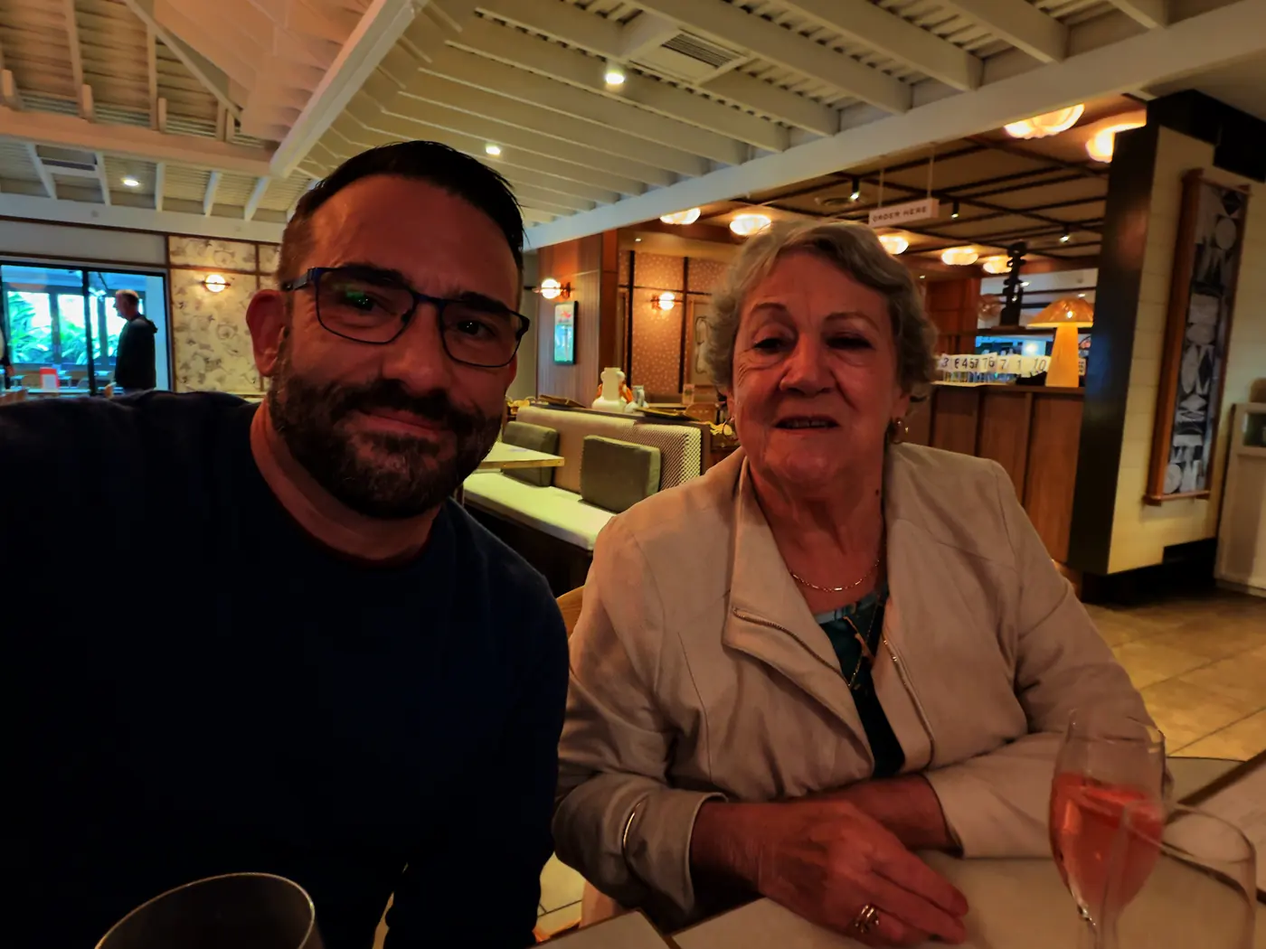
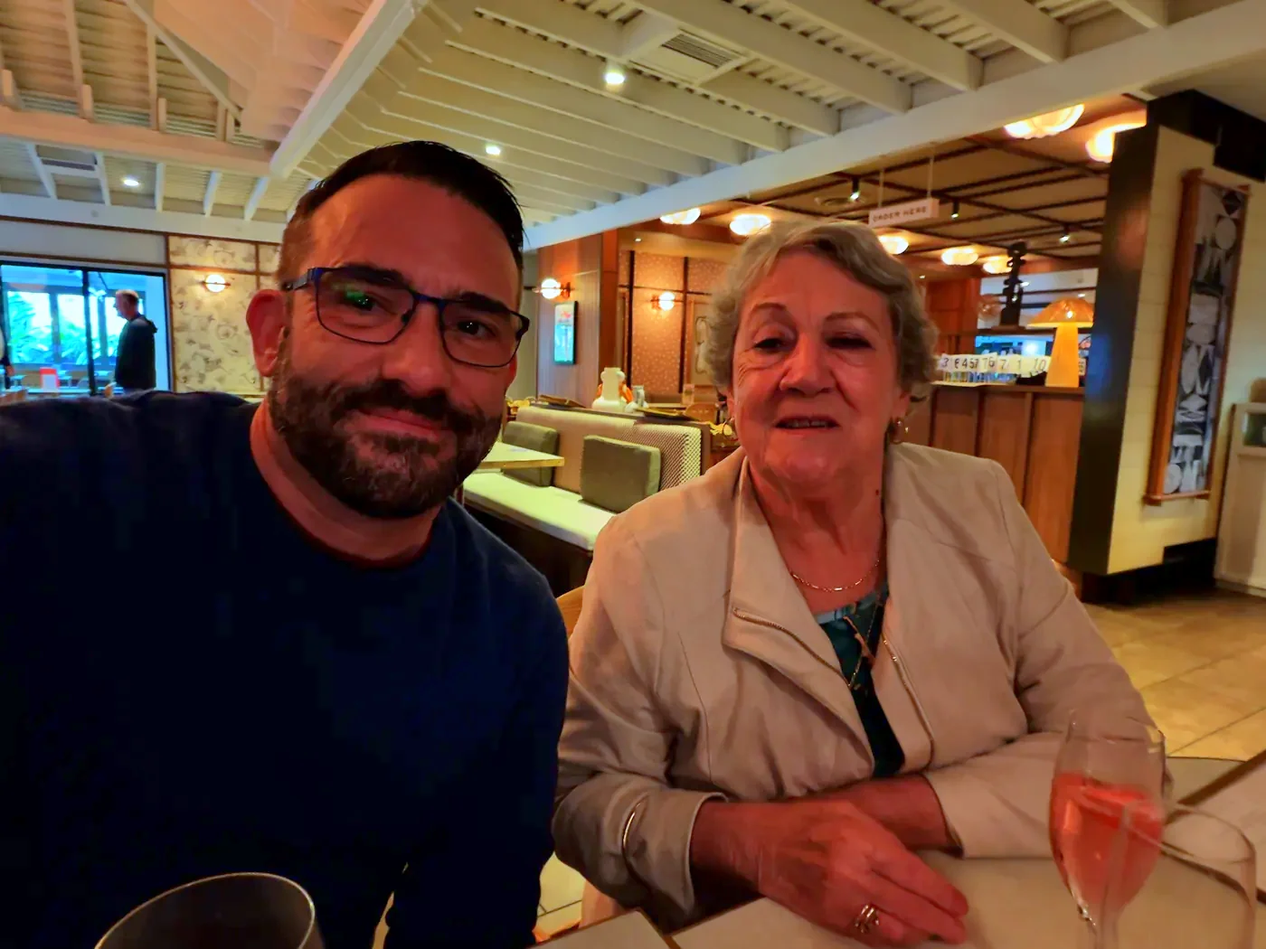
Fix gallery: move 2014-v1 video to 2024, drop duplicate mum photo
Renames 2014-v1 (video, poster, thumb) to 2024-v2 so it sits with 2024.
Removes 2025-05, a duplicate of 2025-03, and brightens and rebalances 2025-03.
Rebuilds memories.html.

Claude-Session: https://claude.ai/code/session_011BJYhmmrh5QeYjPERFfxPi

diff --git a/memories.html b/memories.html
@@ -122,7 +122,7 @@
 </header>
 
 <main>
-  <div class="wall" aria-label="86 photos and videos from past bashes">
+  <div class="wall" aria-label="85 photos and videos from past bashes">
     <button class="tile" type="button" data-i="0" data-full="assets/years/2006-01.webp" aria-label="Open photo 1"><img src="assets/years/thumbs/2006-01.webp" width="336" height="448" alt="Photo from a past B.B.B.B" loading="eager" fetchpriority="high" decoding="async"></button>
     <button class="tile" type="button" data-i="1" data-full="assets/years/2006-02.webp" aria-label="Open photo 2"><img src="assets/years/thumbs/2006-02.webp" width="448" height="336" alt="Photo from a past B.B.B.B" loading="eager" fetchpriority="high" decoding="async"></button>
     <button class="tile" type="button" data-i="2" data-full="assets/years/2006-03.webp" aria-label="Open photo 3"><img src="assets/years/thumbs/2006-03.webp" width="448" height="336" alt="Photo from a past B.B.B.B" loading="eager" fetchpriority="high" decoding="async"></button>
@@ -161,54 +161,53 @@
     <button class="tile" type="button" data-i="35" data-full="assets/years/2014-02.webp" aria-label="Open photo 36"><img src="assets/years/thumbs/2014-02.webp" width="640" height="481" alt="Photo from a past B.B.B.B" loading="lazy" decoding="async"></button>
     <button class="tile" type="button" data-i="36" data-full="assets/years/2014-03.webp" aria-label="Open photo 37"><img src="assets/years/thumbs/2014-03.webp" width="640" height="481" alt="Photo from a past B.B.B.B" loading="lazy" decoding="async"></button>
     <button class="tile" type="button" data-i="37" data-full="assets/years/2014-04.webp" aria-label="Open photo 38"><img src="assets/years/thumbs/2014-04.webp" width="640" height="427" alt="Photo from a past B.B.B.B" loading="lazy" decoding="async"></button>
-    <button class="tile vid" type="button" data-i="38" data-video="assets/years/2014-v1.mp4" data-poster="assets/years/2014-v1.jpg" aria-label="Play video: Video from a past B.B.B.B"><img src="assets/years/thumbs/2014-v1.webp" width="360" height="640" alt="" loading="lazy" decoding="async"><span class="play" aria-hidden="true"></span></button>
-    <button class="tile" type="button" data-i="39" data-full="assets/years/2015-01.webp" aria-label="Open photo 40"><img src="assets/years/thumbs/2015-01.webp" width="640" height="480" alt="Photo from a past B.B.B.B" loading="lazy" decoding="async"></button>
-    <button class="tile" type="button" data-i="40" data-full="assets/years/2015-02.webp" aria-label="Open photo 41"><img src="assets/years/thumbs/2015-02.webp" width="640" height="480" alt="Photo from a past B.B.B.B" loading="lazy" decoding="async"></button>
-    <button class="tile" type="button" data-i="41" data-full="assets/years/2015-03.webp" aria-label="Open photo 42"><img src="assets/years/thumbs/2015-03.webp" width="640" height="480" alt="Photo from a past B.B.B.B" loading="lazy" decoding="async"></button>
-    <button class="tile" type="button" data-i="42" data-full="assets/years/2016-02.webp" aria-label="Open photo 43"><img src="assets/years/thumbs/2016-02.webp" width="640" height="480" alt="Photo from a past B.B.B.B" loading="lazy" decoding="async"></button>
-    <button class="tile" type="button" data-i="43" data-full="assets/years/2016-03.webp" aria-label="Open photo 44"><img src="assets/years/thumbs/2016-03.webp" width="640" height="480" alt="Photo from a past B.B.B.B" loading="lazy" decoding="async"></button>
-    <button class="tile" type="button" data-i="44" data-full="assets/years/2016-04.webp" aria-label="Open photo 45"><img src="assets/years/thumbs/2016-04.webp" width="640" height="480" alt="Photo from a past B.B.B.B" loading="lazy" decoding="async"></button>
-    <button class="tile" type="button" data-i="45" data-full="assets/years/2016-05.webp" aria-label="Open photo 46"><img src="assets/years/thumbs/2016-05.webp" width="640" height="853" alt="Photo from a past B.B.B.B" loading="lazy" decoding="async"></button>
-    <button class="tile" type="button" data-i="46" data-full="assets/years/2016-06.webp" aria-label="Open photo 47"><img src="assets/years/thumbs/2016-06.webp" width="640" height="480" alt="Photo from a past B.B.B.B" loading="lazy" decoding="async"></button>
-    <button class="tile" type="button" data-i="47" data-full="assets/years/2016-07.webp" aria-label="Open photo 48"><img src="assets/years/thumbs/2016-07.webp" width="640" height="853" alt="Photo from a past B.B.B.B" loading="lazy" decoding="async"></button>
-    <button class="tile" type="button" data-i="48" data-full="assets/years/2016-08.webp" aria-label="Open photo 49"><img src="assets/years/thumbs/2016-08.webp" width="640" height="480" alt="Photo from a past B.B.B.B" loading="lazy" decoding="async"></button>
-    <button class="tile" type="button" data-i="49" data-full="assets/years/2016-09.webp" aria-label="Open photo 50"><img src="assets/years/thumbs/2016-09.webp" width="640" height="480" alt="Photo from a past B.B.B.B" loading="lazy" decoding="async"></button>
-    <button class="tile" type="button" data-i="50" data-full="assets/years/2017-01.webp" aria-label="Open photo 51"><img src="assets/years/thumbs/2017-01.webp" width="640" height="480" alt="Photo from a past B.B.B.B" loading="lazy" decoding="async"></button>
-    <button class="tile" type="button" data-i="51" data-full="assets/years/2017-02.webp" aria-label="Open photo 52"><img src="assets/years/thumbs/2017-02.webp" width="640" height="480" alt="Photo from a past B.B.B.B" loading="lazy" decoding="async"></button>
-    <button class="tile vid" type="button" data-i="52" data-video="assets/years/2018-v1.mp4" data-poster="assets/years/2018-v1.jpg" aria-label="Play video: Video from a past B.B.B.B"><img src="assets/years/thumbs/2018-v1.webp" width="640" height="360" alt="" loading="lazy" decoding="async"><span class="play" aria-hidden="true"></span></button>
-    <button class="tile vid" type="button" data-i="53" data-video="assets/years/2018-v2.mp4" data-poster="assets/years/2018-v2.jpg" aria-label="Play video: Video from a past B.B.B.B"><img src="assets/years/thumbs/2018-v2.webp" width="640" height="360" alt="" loading="lazy" decoding="async"><span class="play" aria-hidden="true"></span></button>
-    <button class="tile" type="button" data-i="54" data-full="assets/years/2019-01.webp" aria-label="Open photo 55"><img src="assets/years/thumbs/2019-01.webp" width="640" height="480" alt="Photo from a past B.B.B.B" loading="lazy" decoding="async"></button>
-    <button class="tile vid" type="button" data-i="55" data-video="assets/years/2019-v1.mp4" data-poster="assets/years/2019-v1.jpg" aria-label="Play video: Video from a past B.B.B.B"><img src="assets/years/thumbs/2019-v1.webp" width="640" height="360" alt="" loading="lazy" decoding="async"><span class="play" aria-hidden="true"></span></button>
-    <button class="tile wide" type="button" data-i="56" data-full="assets/years/2020-01.webp" aria-label="Open photo 57"><img src="assets/years/thumbs/2020-01.webp" width="640" height="244" alt="Invitation from a past B.B.B.B" loading="lazy" decoding="async"></button>
-    <button class="tile" type="button" data-i="57" data-full="assets/years/2020-03.webp" aria-label="Open photo 58"><img src="assets/years/thumbs/2020-03.webp" width="640" height="480" alt="Photo from a past B.B.B.B" loading="lazy" decoding="async"></button>
-    <button class="tile" type="button" data-i="58" data-full="assets/years/2020-04.webp" aria-label="Open photo 59"><img src="assets/years/thumbs/2020-04.webp" width="640" height="480" alt="Photo from a past B.B.B.B" loading="lazy" decoding="async"></button>
-    <button class="tile" type="button" data-i="59" data-full="assets/years/2020-05.webp" aria-label="Open photo 60"><img src="assets/years/thumbs/2020-05.webp" width="640" height="480" alt="Photo from a past B.B.B.B" loading="lazy" decoding="async"></button>
-    <button class="tile" type="button" data-i="60" data-full="assets/years/2020-06.webp" aria-label="Open photo 61"><img src="assets/years/thumbs/2020-06.webp" width="640" height="480" alt="Photo from a past B.B.B.B" loading="lazy" decoding="async"></button>
-    <button class="tile wide" type="button" data-i="61" data-full="assets/years/2021-01.webp" aria-label="Open photo 62"><img src="assets/years/thumbs/2021-01.webp" width="640" height="361" alt="Invitation from a past B.B.B.B" loading="lazy" decoding="async"></button>
-    <button class="tile" type="button" data-i="62" data-full="assets/years/2021-02.webp" aria-label="Open photo 63"><img src="assets/years/thumbs/2021-02.webp" width="640" height="853" alt="Photo from a past B.B.B.B" loading="lazy" decoding="async"></button>
-    <button class="tile" type="button" data-i="63" data-full="assets/years/2021-03.webp" aria-label="Open photo 64"><img src="assets/years/thumbs/2021-03.webp" width="640" height="480" alt="Photo from a past B.B.B.B" loading="lazy" decoding="async"></button>
-    <button class="tile" type="button" data-i="64" data-full="assets/years/2021-04.webp" aria-label="Open photo 65"><img src="assets/years/thumbs/2021-04.webp" width="640" height="480" alt="Photo from a past B.B.B.B" loading="lazy" decoding="async"></button>
-    <button class="tile" type="button" data-i="65" data-full="assets/years/2021-05.webp" aria-label="Open photo 66"><img src="assets/years/thumbs/2021-05.webp" width="640" height="480" alt="Photo from a past B.B.B.B" loading="lazy" decoding="async"></button>
-    <button class="tile" type="button" data-i="66" data-full="assets/years/2022-01.webp" aria-label="Open photo 67"><img src="assets/years/thumbs/2022-01.webp" width="640" height="360" alt="Photo from a past B.B.B.B" loading="lazy" decoding="async"></button>
-    <button class="tile" type="button" data-i="67" data-full="assets/years/2022-02.webp" aria-label="Open photo 68"><img src="assets/years/thumbs/2022-02.webp" width="640" height="360" alt="Photo from a past B.B.B.B" loading="lazy" decoding="async"></button>
-    <button class="tile" type="button" data-i="68" data-full="assets/years/2022-03.webp" aria-label="Open photo 69"><img src="assets/years/thumbs/2022-03.webp" width="640" height="360" alt="Photo from a past B.B.B.B" loading="lazy" decoding="async"></button>
-    <button class="tile" type="button" data-i="69" data-full="assets/years/2022-04.webp" aria-label="Open photo 70"><img src="assets/years/thumbs/2022-04.webp" width="640" height="360" alt="Photo from a past B.B.B.B" loading="lazy" decoding="async"></button>
-    <button class="tile" type="button" data-i="70" data-full="assets/years/2022-05.webp" aria-label="Open photo 71"><img src="assets/years/thumbs/2022-05.webp" width="640" height="361" alt="Photo from a past B.B.B.B" loading="lazy" decoding="async"></button>
-    <button class="tile" type="button" data-i="71" data-full="assets/years/2022-06.webp" aria-label="Open photo 72"><img src="assets/years/thumbs/2022-06.webp" width="640" height="360" alt="Photo from a past B.B.B.B" loading="lazy" decoding="async"></button>
-    <button class="tile vid" type="button" data-i="72" data-video="assets/years/2022-v1.mp4" data-poster="assets/years/2022-v1.jpg" aria-label="Play video: Video from a past B.B.B.B"><img src="assets/years/thumbs/2022-v1.webp" width="640" height="360" alt="" loading="lazy" decoding="async"><span class="play" aria-hidden="true"></span></button>
-    <button class="tile" type="button" data-i="73" data-full="assets/years/2023-01.webp" aria-label="Open photo 74"><img src="assets/years/thumbs/2023-01.webp" width="640" height="360" alt="Photo from a past B.B.B.B" loading="lazy" decoding="async"></button>
-    <button class="tile" type="button" data-i="74" data-full="assets/years/2023-02.webp" aria-label="Open photo 75"><img src="assets/years/thumbs/2023-02.webp" width="640" height="360" alt="Photo from a past B.B.B.B" loading="lazy" decoding="async"></button>
-    <button class="tile" type="button" data-i="75" data-full="assets/years/2023-03.webp" aria-label="Open photo 76"><img src="assets/years/thumbs/2023-03.webp" width="640" height="360" alt="Photo from a past B.B.B.B" loading="lazy" decoding="async"></button>
-    <button class="tile" type="button" data-i="76" data-full="assets/years/2024-02.webp" aria-label="Open photo 77"><img src="assets/years/thumbs/2024-02.webp" width="640" height="360" alt="Photo from a past B.B.B.B" loading="lazy" decoding="async"></button>
-    <button class="tile vid" type="button" data-i="77" data-video="assets/years/2024-v1.mp4" data-poster="assets/years/2024-v1.jpg" aria-label="Play video: Video from a past B.B.B.B"><img src="assets/years/thumbs/2024-v1.webp" width="640" height="360" alt="" loading="lazy" decoding="async"><span class="play" aria-hidden="true"></span></button>
+    <button class="tile" type="button" data-i="38" data-full="assets/years/2015-01.webp" aria-label="Open photo 39"><img src="assets/years/thumbs/2015-01.webp" width="640" height="480" alt="Photo from a past B.B.B.B" loading="lazy" decoding="async"></button>
+    <button class="tile" type="button" data-i="39" data-full="assets/years/2015-02.webp" aria-label="Open photo 40"><img src="assets/years/thumbs/2015-02.webp" width="640" height="480" alt="Photo from a past B.B.B.B" loading="lazy" decoding="async"></button>
+    <button class="tile" type="button" data-i="40" data-full="assets/years/2015-03.webp" aria-label="Open photo 41"><img src="assets/years/thumbs/2015-03.webp" width="640" height="480" alt="Photo from a past B.B.B.B" loading="lazy" decoding="async"></button>
+    <button class="tile" type="button" data-i="41" data-full="assets/years/2016-02.webp" aria-label="Open photo 42"><img src="assets/years/thumbs/2016-02.webp" width="640" height="480" alt="Photo from a past B.B.B.B" loading="lazy" decoding="async"></button>
+    <button class="tile" type="button" data-i="42" data-full="assets/years/2016-03.webp" aria-label="Open photo 43"><img src="assets/years/thumbs/2016-03.webp" width="640" height="480" alt="Photo from a past B.B.B.B" loading="lazy" decoding="async"></button>
+    <button class="tile" type="button" data-i="43" data-full="assets/years/2016-04.webp" aria-label="Open photo 44"><img src="assets/years/thumbs/2016-04.webp" width="640" height="480" alt="Photo from a past B.B.B.B" loading="lazy" decoding="async"></button>
+    <button class="tile" type="button" data-i="44" data-full="assets/years/2016-05.webp" aria-label="Open photo 45"><img src="assets/years/thumbs/2016-05.webp" width="640" height="853" alt="Photo from a past B.B.B.B" loading="lazy" decoding="async"></button>
+    <button class="tile" type="button" data-i="45" data-full="assets/years/2016-06.webp" aria-label="Open photo 46"><img src="assets/years/thumbs/2016-06.webp" width="640" height="480" alt="Photo from a past B.B.B.B" loading="lazy" decoding="async"></button>
+    <button class="tile" type="button" data-i="46" data-full="assets/years/2016-07.webp" aria-label="Open photo 47"><img src="assets/years/thumbs/2016-07.webp" width="640" height="853" alt="Photo from a past B.B.B.B" loading="lazy" decoding="async"></button>
+    <button class="tile" type="button" data-i="47" data-full="assets/years/2016-08.webp" aria-label="Open photo 48"><img src="assets/years/thumbs/2016-08.webp" width="640" height="480" alt="Photo from a past B.B.B.B" loading="lazy" decoding="async"></button>
+    <button class="tile" type="button" data-i="48" data-full="assets/years/2016-09.webp" aria-label="Open photo 49"><img src="assets/years/thumbs/2016-09.webp" width="640" height="480" alt="Photo from a past B.B.B.B" loading="lazy" decoding="async"></button>
+    <button class="tile" type="button" data-i="49" data-full="assets/years/2017-01.webp" aria-label="Open photo 50"><img src="assets/years/thumbs/2017-01.webp" width="640" height="480" alt="Photo from a past B.B.B.B" loading="lazy" decoding="async"></button>
+    <button class="tile" type="button" data-i="50" data-full="assets/years/2017-02.webp" aria-label="Open photo 51"><img src="assets/years/thumbs/2017-02.webp" width="640" height="480" alt="Photo from a past B.B.B.B" loading="lazy" decoding="async"></button>
+    <button class="tile vid" type="button" data-i="51" data-video="assets/years/2018-v1.mp4" data-poster="assets/years/2018-v1.jpg" aria-label="Play video: Video from a past B.B.B.B"><img src="assets/years/thumbs/2018-v1.webp" width="640" height="360" alt="" loading="lazy" decoding="async"><span class="play" aria-hidden="true"></span></button>
+    <button class="tile vid" type="button" data-i="52" data-video="assets/years/2018-v2.mp4" data-poster="assets/years/2018-v2.jpg" aria-label="Play video: Video from a past B.B.B.B"><img src="assets/years/thumbs/2018-v2.webp" width="640" height="360" alt="" loading="lazy" decoding="async"><span class="play" aria-hidden="true"></span></button>
+    <button class="tile" type="button" data-i="53" data-full="assets/years/2019-01.webp" aria-label="Open photo 54"><img src="assets/years/thumbs/2019-01.webp" width="640" height="480" alt="Photo from a past B.B.B.B" loading="lazy" decoding="async"></button>
+    <button class="tile vid" type="button" data-i="54" data-video="assets/years/2019-v1.mp4" data-poster="assets/years/2019-v1.jpg" aria-label="Play video: Video from a past B.B.B.B"><img src="assets/years/thumbs/2019-v1.webp" width="640" height="360" alt="" loading="lazy" decoding="async"><span class="play" aria-hidden="true"></span></button>
+    <button class="tile wide" type="button" data-i="55" data-full="assets/years/2020-01.webp" aria-label="Open photo 56"><img src="assets/years/thumbs/2020-01.webp" width="640" height="244" alt="Invitation from a past B.B.B.B" loading="lazy" decoding="async"></button>
+    <button class="tile" type="button" data-i="56" data-full="assets/years/2020-03.webp" aria-label="Open photo 57"><img src="assets/years/thumbs/2020-03.webp" width="640" height="480" alt="Photo from a past B.B.B.B" loading="lazy" decoding="async"></button>
+    <button class="tile" type="button" data-i="57" data-full="assets/years/2020-04.webp" aria-label="Open photo 58"><img src="assets/years/thumbs/2020-04.webp" width="640" height="480" alt="Photo from a past B.B.B.B" loading="lazy" decoding="async"></button>
+    <button class="tile" type="button" data-i="58" data-full="assets/years/2020-05.webp" aria-label="Open photo 59"><img src="assets/years/thumbs/2020-05.webp" width="640" height="480" alt="Photo from a past B.B.B.B" loading="lazy" decoding="async"></button>
+    <button class="tile" type="button" data-i="59" data-full="assets/years/2020-06.webp" aria-label="Open photo 60"><img src="assets/years/thumbs/2020-06.webp" width="640" height="480" alt="Photo from a past B.B.B.B" loading="lazy" decoding="async"></button>
+    <button class="tile wide" type="button" data-i="60" data-full="assets/years/2021-01.webp" aria-label="Open photo 61"><img src="assets/years/thumbs/2021-01.webp" width="640" height="361" alt="Invitation from a past B.B.B.B" loading="lazy" decoding="async"></button>
+    <button class="tile" type="button" data-i="61" data-full="assets/years/2021-02.webp" aria-label="Open photo 62"><img src="assets/years/thumbs/2021-02.webp" width="640" height="853" alt="Photo from a past B.B.B.B" loading="lazy" decoding="async"></button>
+    <button class="tile" type="button" data-i="62" data-full="assets/years/2021-03.webp" aria-label="Open photo 63"><img src="assets/years/thumbs/2021-03.webp" width="640" height="480" alt="Photo from a past B.B.B.B" loading="lazy" decoding="async"></button>
+    <button class="tile" type="button" data-i="63" data-full="assets/years/2021-04.webp" aria-label="Open photo 64"><img src="assets/years/thumbs/2021-04.webp" width="640" height="480" alt="Photo from a past B.B.B.B" loading="lazy" decoding="async"></button>
+    <button class="tile" type="button" data-i="64" data-full="assets/years/2021-05.webp" aria-label="Open photo 65"><img src="assets/years/thumbs/2021-05.webp" width="640" height="480" alt="Photo from a past B.B.B.B" loading="lazy" decoding="async"></button>
+    <button class="tile" type="button" data-i="65" data-full="assets/years/2022-01.webp" aria-label="Open photo 66"><img src="assets/years/thumbs/2022-01.webp" width="640" height="360" alt="Photo from a past B.B.B.B" loading="lazy" decoding="async"></button>
+    <button class="tile" type="button" data-i="66" data-full="assets/years/2022-02.webp" aria-label="Open photo 67"><img src="assets/years/thumbs/2022-02.webp" width="640" height="360" alt="Photo from a past B.B.B.B" loading="lazy" decoding="async"></button>
+    <button class="tile" type="button" data-i="67" data-full="assets/years/2022-03.webp" aria-label="Open photo 68"><img src="assets/years/thumbs/2022-03.webp" width="640" height="360" alt="Photo from a past B.B.B.B" loading="lazy" decoding="async"></button>
+    <button class="tile" type="button" data-i="68" data-full="assets/years/2022-04.webp" aria-label="Open photo 69"><img src="assets/years/thumbs/2022-04.webp" width="640" height="360" alt="Photo from a past B.B.B.B" loading="lazy" decoding="async"></button>
+    <button class="tile" type="button" data-i="69" data-full="assets/years/2022-05.webp" aria-label="Open photo 70"><img src="assets/years/thumbs/2022-05.webp" width="640" height="361" alt="Photo from a past B.B.B.B" loading="lazy" decoding="async"></button>
+    <button class="tile" type="button" data-i="70" data-full="assets/years/2022-06.webp" aria-label="Open photo 71"><img src="assets/years/thumbs/2022-06.webp" width="640" height="360" alt="Photo from a past B.B.B.B" loading="lazy" decoding="async"></button>
+    <button class="tile vid" type="button" data-i="71" data-video="assets/years/2022-v1.mp4" data-poster="assets/years/2022-v1.jpg" aria-label="Play video: Video from a past B.B.B.B"><img src="assets/years/thumbs/2022-v1.webp" width="640" height="360" alt="" loading="lazy" decoding="async"><span class="play" aria-hidden="true"></span></button>
+    <button class="tile" type="button" data-i="72" data-full="assets/years/2023-01.webp" aria-label="Open photo 73"><img src="assets/years/thumbs/2023-01.webp" width="640" height="360" alt="Photo from a past B.B.B.B" loading="lazy" decoding="async"></button>
+    <button class="tile" type="button" data-i="73" data-full="assets/years/2023-02.webp" aria-label="Open photo 74"><img src="assets/years/thumbs/2023-02.webp" width="640" height="360" alt="Photo from a past B.B.B.B" loading="lazy" decoding="async"></button>
+    <button class="tile" type="button" data-i="74" data-full="assets/years/2023-03.webp" aria-label="Open photo 75"><img src="assets/years/thumbs/2023-03.webp" width="640" height="360" alt="Photo from a past B.B.B.B" loading="lazy" decoding="async"></button>
+    <button class="tile" type="button" data-i="75" data-full="assets/years/2024-02.webp" aria-label="Open photo 76"><img src="assets/years/thumbs/2024-02.webp" width="640" height="360" alt="Photo from a past B.B.B.B" loading="lazy" decoding="async"></button>
+    <button class="tile vid" type="button" data-i="76" data-video="assets/years/2024-v1.mp4" data-poster="assets/years/2024-v1.jpg" aria-label="Play video: Video from a past B.B.B.B"><img src="assets/years/thumbs/2024-v1.webp" width="640" height="360" alt="" loading="lazy" decoding="async"><span class="play" aria-hidden="true"></span></button>
+    <button class="tile vid" type="button" data-i="77" data-video="assets/years/2024-v2.mp4" data-poster="assets/years/2024-v2.jpg" aria-label="Play video: Video from a past B.B.B.B"><img src="assets/years/thumbs/2024-v2.webp" width="360" height="640" alt="" loading="lazy" decoding="async"><span class="play" aria-hidden="true"></span></button>
     <button class="tile" type="button" data-i="78" data-full="assets/years/2025-01.webp" aria-label="Open photo 79"><img src="assets/years/thumbs/2025-01.webp" width="640" height="480" alt="Photo from a past B.B.B.B" loading="lazy" decoding="async"></button>
     <button class="tile" type="button" data-i="79" data-full="assets/years/2025-02.webp" aria-label="Open photo 80"><img src="assets/years/thumbs/2025-02.webp" width="640" height="480" alt="Photo from a past B.B.B.B" loading="lazy" decoding="async"></button>
     <button class="tile" type="button" data-i="80" data-full="assets/years/2025-03.webp" aria-label="Open photo 81"><img src="assets/years/thumbs/2025-03.webp" width="640" height="480" alt="Photo from a past B.B.B.B" loading="lazy" decoding="async"></button>
     <button class="tile" type="button" data-i="81" data-full="assets/years/2025-04.webp" aria-label="Open photo 82"><img src="assets/years/thumbs/2025-04.webp" width="640" height="360" alt="Photo from a past B.B.B.B" loading="lazy" decoding="async"></button>
-    <button class="tile" type="button" data-i="82" data-full="assets/years/2025-05.webp" aria-label="Open photo 83"><img src="assets/years/thumbs/2025-05.webp" width="640" height="480" alt="Photo from a past B.B.B.B" loading="lazy" decoding="async"></button>
-    <button class="tile" type="button" data-i="83" data-full="assets/years/2025-06.webp" aria-label="Open photo 84"><img src="assets/years/thumbs/2025-06.webp" width="640" height="360" alt="Photo from a past B.B.B.B" loading="lazy" decoding="async"></button>
-    <button class="tile" type="button" data-i="84" data-full="assets/years/2025-07.webp" aria-label="Open photo 85"><img src="assets/years/thumbs/2025-07.webp" width="640" height="360" alt="Photo from a past B.B.B.B" loading="lazy" decoding="async"></button>
-    <button class="tile vid yt" type="button" data-i="85" data-youtube="NfplQbyGHl4" aria-label="Play video: RÜFÜS DU SOL: The Best Birthday Concert Ever"><img src="https://i.ytimg.com/vi/NfplQbyGHl4/maxresdefault.jpg" width="1280" height="720" alt="" loading="lazy" decoding="async" onerror="this.onerror=null;this.src='https://i.ytimg.com/vi/NfplQbyGHl4/hqdefault.jpg';this.classList.add('hq')"><span class="play" aria-hidden="true"></span></button>
+    <button class="tile" type="button" data-i="82" data-full="assets/years/2025-06.webp" aria-label="Open photo 83"><img src="assets/years/thumbs/2025-06.webp" width="640" height="360" alt="Photo from a past B.B.B.B" loading="lazy" decoding="async"></button>
+    <button class="tile" type="button" data-i="83" data-full="assets/years/2025-07.webp" aria-label="Open photo 84"><img src="assets/years/thumbs/2025-07.webp" width="640" height="360" alt="Photo from a past B.B.B.B" loading="lazy" decoding="async"></button>
+    <button class="tile vid yt" type="button" data-i="84" data-youtube="NfplQbyGHl4" aria-label="Play video: RÜFÜS DU SOL: The Best Birthday Concert Ever"><img src="https://i.ytimg.com/vi/NfplQbyGHl4/maxresdefault.jpg" width="1280" height="720" alt="" loading="lazy" decoding="async" onerror="this.onerror=null;this.src='https://i.ytimg.com/vi/NfplQbyGHl4/hqdefault.jpg';this.classList.add('hq')"><span class="play" aria-hidden="true"></span></button>
   </div>
 
   <section class="notes"><div class="wrap">

diff --git a/make_memories.py b/make_memories.py
@@ -8,12 +8,12 @@ REMOVE = {"1976-01", "2007-01", "2009-01", "2013-02", "2016-01", "2020-02"}  # b
 WIDE = {"2013-01", "2013-02", "2016-01", "2020-01", "2021-01"}  # invite graphics: full row, not cropped
 VIDEOS = {  # code: (mp4, label). Poster is assets/years/<code>.jpg, thumb is thumbs/<code>.webp
     "2013-v1": ("assets/years/2013-v1.mp4", "Video from a past B.B.B.B"),
-    "2014-v1": ("assets/years/2014-v1.mp4", "Video from a past B.B.B.B"),
     "2018-v1": ("assets/years/2018-v1.mp4", "Video from a past B.B.B.B"),
     "2018-v2": ("assets/years/2018-v2.mp4", "Video from a past B.B.B.B"),
     "2019-v1": ("assets/years/2019-v1.mp4", "Video from a past B.B.B.B"),
     "2022-v1": ("assets/years/2022-v1.mp4", "Video from a past B.B.B.B"),
     "2024-v1": ("assets/years/2024-v1.mp4", "Video from a past B.B.B.B"),
+    "2024-v2": ("assets/years/2024-v2.mp4", "Video from a past B.B.B.B"),
 }
 YOUTUBE = {  # code: (YouTube id, label). Plays in the page, no trip to YouTube
     "2025-yt": ("NfplQbyGHl4", "RÜFÜS DU SOL: The Best Birthday Concert Ever"),
